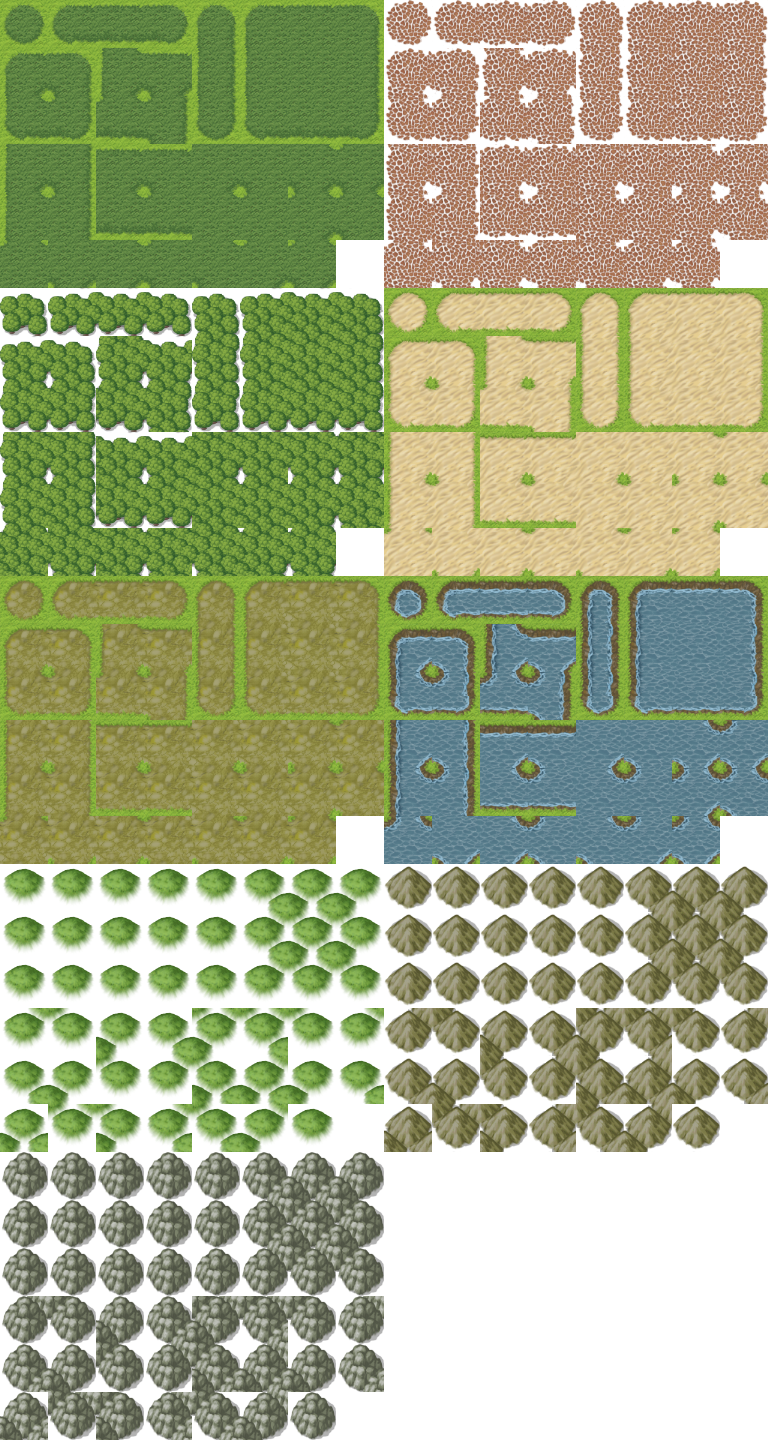
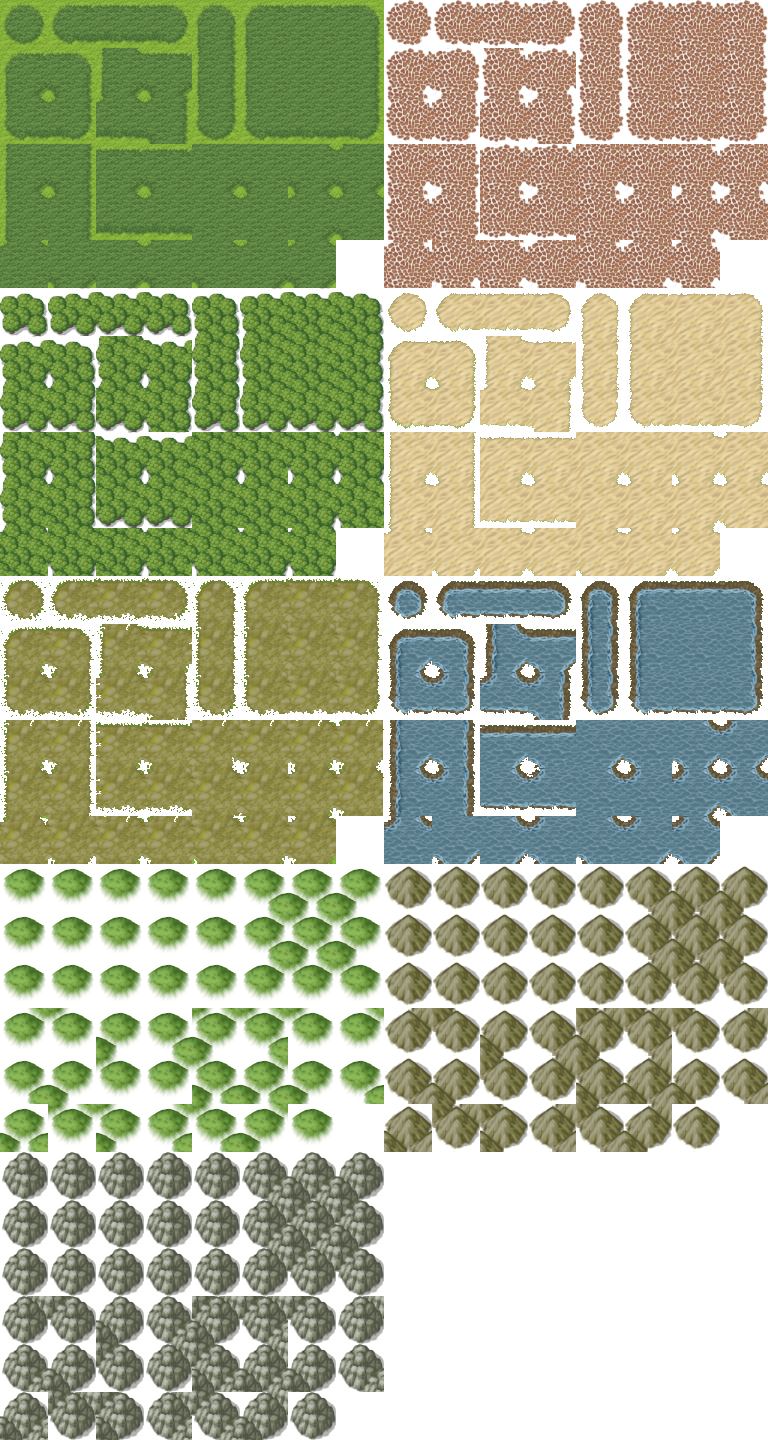
desert background

Changed region(s): [[0.0, 0.1875, 1.0, 0.5938], [0.125, 0.5625, 0.25, 0.5938]]

diff --git a/game.js b/game.js
@@ -18,6 +18,16 @@ const dungeonTileSet = loadImg("0x72_DungeonTilesetII_v1.7x2");
 const shikashiTileSet = loadImg("Shikashi");
 const pipoBuildingTileSet = loadImg("pipo-map001");
 const pipoGroundTileSet = loadImg("pipo-map001_at");
+let desertBg = document.createElement("canvas");
+desertBg.width = 48;
+desertBg.height = 48;
+pipoGroundTileSet.onload = function(){
+    const desertCtx = desertBg.getContext("2d");
+    desertCtx.drawImage(pipoGroundTileSet, 
+        672, 336, 48, 48,
+        0, 0, 48, 48
+    );
+};
 
 function getShikashiTile(i, j) {
     return new Sprite(shikashiTileSet, i * 32, j * 32, 32, 32);
@@ -105,22 +115,24 @@ class PipoGoundTiles {
         this.map_j = Math.floor(index / 2);
         this.topX = this.map_i * 48 * 8;
         this.topY = this.map_j * 48 * 6;
-        this.relative = [
+        this.outsideRelative = [
             [{ i: 4, j: 3 }, { i: 6, j: 2 }, { i: 5, j: 3 }],
             [{ i: 7, j: 1 }, { i: 6, j: 1 }, { i: 5, j: 1 }],
             [{ i: 4, j: 4 }, { i: 6, j: 0 }, { i: 5, j: 4 }],
-        ]
+        ];
+      
     }
     paint(i, j, x, y) {
-        const subCell = this.relative[j][i];
+        const subCell = this.outsideRelative[j][i];
         const sourceX = this.topX + subCell.i * 48;
         const sourceY = this.topY + subCell.j * 48;
         ctx.drawImage(this.tile,
             sourceX, sourceY, 48, 48,
             x, y, 48, 48
         )
-    }
+    }    
 }
+
 const waterTiles = new PipoGoundTiles(5, "water");
 
 const tickDuration = 1000.0 / 30;
@@ -1050,7 +1062,7 @@ class HeadquartersBigSprite {
     paintNoScale(x, y) {
         this.sprite.paintNoScale(x - this.offSetX, y - this.offSetY);
     }
-    paint32(x, y){
+    paint32(x, y) {
         this.sprite.paint32(x, y);
     }
 }
@@ -1203,21 +1215,7 @@ class Map {
         this.storerooms = [];
     }
     paint() {
-        waterTiles.paint(0, 0, Map.BorderX - 48, Map.BorderY - 48);
-        waterTiles.paint(2, 0, Map.BorderX + 48 * Map.MaxX, Map.BorderY - 48);
-        waterTiles.paint(0, 2, Map.BorderX - 48, Map.BorderY + Map.MaxY * 48);
-        waterTiles.paint(2, 2, Map.BorderX + 48 * Map.MaxX, Map.BorderY + Map.MaxY * 48);
-        for (let j = 0; j < Map.MaxY; j++) {
-            waterTiles.paint(0, 1, Map.BorderX - 48, Map.BorderY + j * 48)
-            waterTiles.paint(2, 1, Map.BorderX + 48 * Map.MaxX, Map.BorderY + j * 48)
-        }
-        for (let i = 0; i < Map.MaxX; i++) {
-            waterTiles.paint(1, 0, Map.BorderX + i * 48, Map.BorderY - 48);
-            for (let j = 0; j < Map.MaxY; j++) {
-                greenGroundSprite.paintNoScale(Map.BorderX + i * 48, Map.BorderY + j * 48)
-            }
-            waterTiles.paint(1, 2, Map.BorderX + i * 48, Map.BorderY + Map.MaxY * 48)
-        }
+        this.paintBackground();
         for (let tile of this.storerooms) {
             tile.paint();
         }
@@ -1228,6 +1226,48 @@ class Map {
             s.paint();
         }
         headquarters.paint();
+    }
+    paintWaterCell(tile_i, tile_j, cell_i, cell_j) {
+        waterTiles.paint(tile_i, tile_j, Map.BorderX + 48 * cell_i, Map.BorderY + 48 * cell_j);
+    }
+    paintTileCell(tiles, tile_i, tile_j, cell_i, cell_j, inside) {
+        if (inside) {
+            tiles.paint(tile_i, tile_j, Map.BorderX + 48 * cell_i, Map.BorderY + 48 * cell_j);
+        } else {
+            tiles.paintBorder(tile_i, tile_j, Map.BorderX + 48 * cell_i, Map.BorderY + 48 * cell_j);
+        }
+    }    
+    paintDesert() {      
+        let region = new Path2D();
+        region.moveTo(13 * 48, 0);
+        region.lineTo(CanvasWidth + 1, 0);
+        region.lineTo(CanvasWidth + 1, 3 * 48);
+        region.lineTo(13.5 * 48, 3 * 48);
+        region.bezierCurveTo(13.5 * 48, 3 * 48, 13.10 * 48, 2.90 * 48, 13 * 48, 2.5 * 48);
+        region.lineTo(13 * 48, 0);
+        region.closePath();
+        ctx.fillStyle = ctx.createPattern(desertBg, "repeat");
+        ctx.fill(region);
+    }
+    paintBackground() {
+        for (let i = -1; i < Map.MaxX + 1; i++) {
+            for (let j = -1; j < Map.MaxY + 1; j++) {
+                greenGroundSprite.paintNoScale(Map.BorderX + i * 48, Map.BorderY + j * 48)
+            }
+        }
+        this.paintDesert();
+        this.paintWaterCell(0, 0, -1, -1);
+        this.paintWaterCell(2, 0, Map.MaxX, -1);
+        this.paintWaterCell(0, 2, -1, Map.MaxY);
+        this.paintWaterCell(2, 2, Map.MaxX, Map.MaxY);
+        for (let j = 0; j < Map.MaxY; j++) {
+            this.paintWaterCell(0, 1, -1, j)
+            this.paintWaterCell(2, 1, Map.MaxX, j)
+        }
+        for (let i = 0; i < Map.MaxX; i++) {
+            this.paintWaterCell(1, 0, i, -1);
+            this.paintWaterCell(1, 2, i, Map.MaxY)
+        }
     }
     getCoord(cell) {
         const x = Map.BorderX + cell.i * 48;
